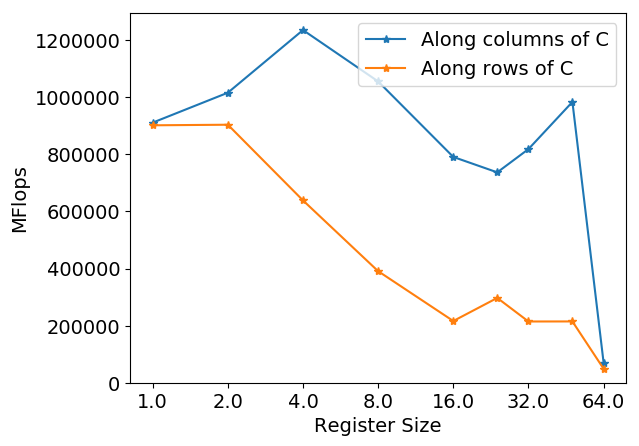
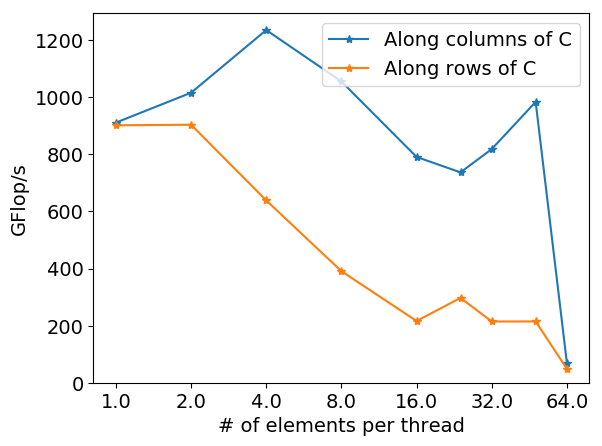
Add more profiler results and change viz functions to show GFlops

diff --git a/matmult/vizsharedmemblocking.py b/matmult/vizsharedmemblocking.py
@@ -19,13 +19,13 @@ mpl.rc('font', **font)
 df1 = pd.read_csv('./data/sharedmem_blocksize.dat',delim_whitespace=True,header=None,
                   names=['Block Size','Memory','MFlops','hash','function','Size']).drop(['hash','function'],axis=1)
 df_comb = df1
-
+df_comb['GFlops'] = df_comb['MFlops']/1000
 plt.figure()
 df_comb.set_index("Block Size", inplace=True)
-ax = df_comb.groupby("Size")["MFlops"].plot(legend=True, style ='*-')
+ax = df_comb.groupby("Size")["GFlops"].plot(legend=True, style ='*-')
 plt.legend(loc='upper left')
 plt.xlabel('Block Size')
-plt.ylabel('MFlops')
+plt.ylabel('GFlop/s')
 plt.gca().set_ylim(bottom=0)
 plt.xscale('log',basex=2)
 #plt.yscale('log',basey=2)

diff --git a/matmult/vizregisterblocking.py b/matmult/vizregisterblocking.py
@@ -25,13 +25,15 @@ df1['Blocking Direction'] = 'Along rows of C'
 df2['Blocking Direction'] = 'Along columns of C'
 
 df_comb = pd.concat((df1,df2))
+df_comb['GFlops'] = df_comb['MFlops']/1000
 
 plt.figure()
 df_comb.set_index("Register Size", inplace=True)
-ax = df_comb.groupby("Blocking Direction")["MFlops"].plot(legend=True, style ='*-')
+ax = df_comb.groupby("Blocking Direction")["GFlops"].plot(legend=True, 
+style ='*-')
 plt.legend(loc='upper right')
-plt.xlabel('Register Size')
-plt.ylabel('MFlops')
+plt.xlabel('# of elements per thread')
+plt.ylabel('GFlop/s')
 plt.gca().set_ylim(bottom=0)
 plt.xscale('log',basex=2)
 #plt.yscale('log',basey=2)
